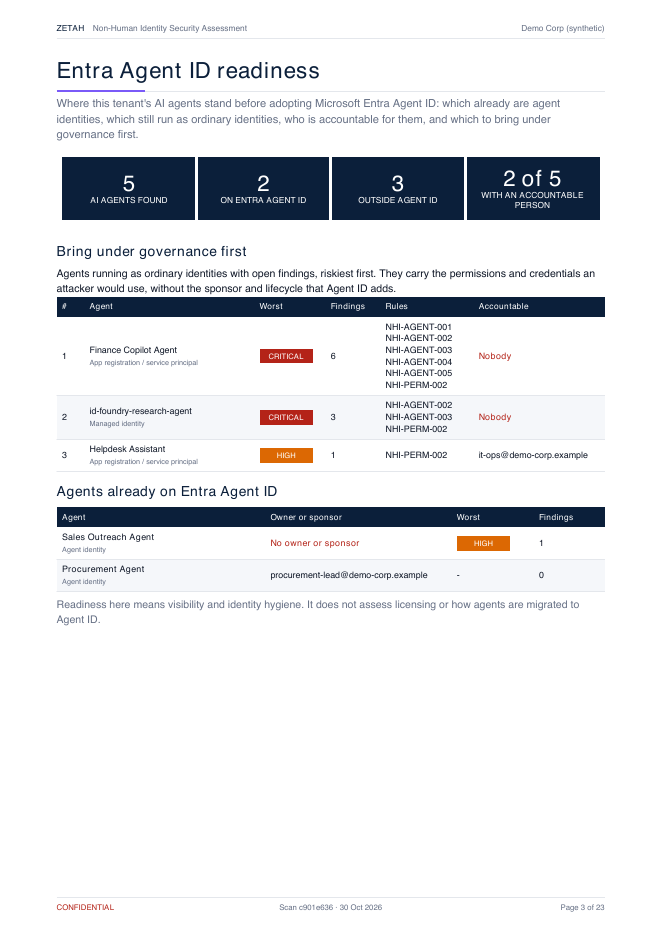
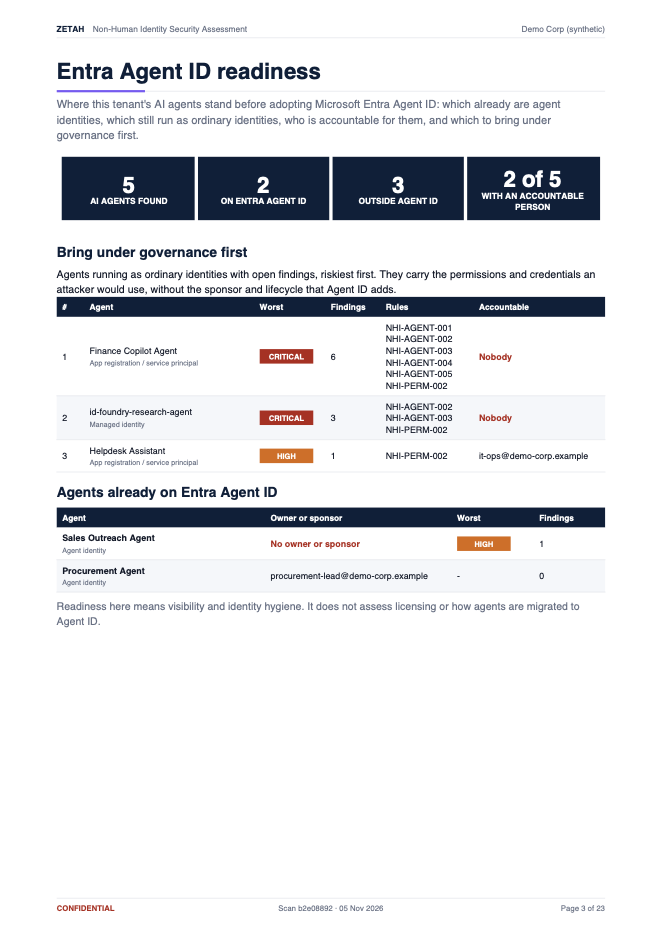
Release zetah-scanner 0.1.1: Agent ID sponsors on Graph v1.0

diff --git a/tests/test_contract.py b/tests/test_contract.py
@@ -33,7 +33,7 @@ def test_demo_payload_round_trips_through_json(payload):
     data = json.loads(raw)
     assert set(data) == {"metadata", "entities", "findings"}
     assert data["metadata"]["tenant_id"] == DEMO_TENANT_ID
-    assert data["metadata"]["scanner_version"] == "0.1.0"
+    assert data["metadata"]["scanner_version"] == "0.1.1"
     assert data["metadata"]["scan_timestamp"] == "2026-10-26T12:00:00Z"
 
 

diff --git a/src/nhi_scanner/__init__.py b/src/nhi_scanner/__init__.py
@@ -1,3 +1,3 @@
 """zetah-scanner — Core Ingestion Engine of the Zetah platform."""
 
-__version__ = "0.1.0"
+__version__ = "0.1.1"
